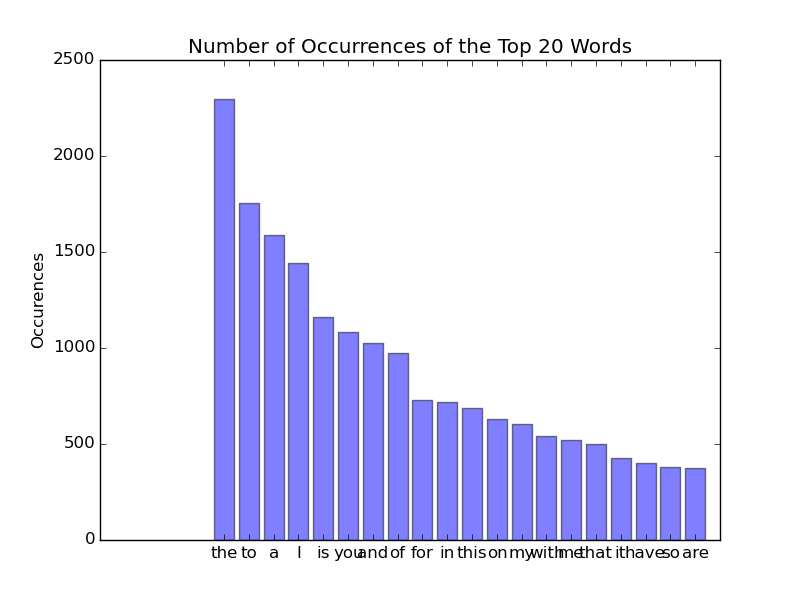
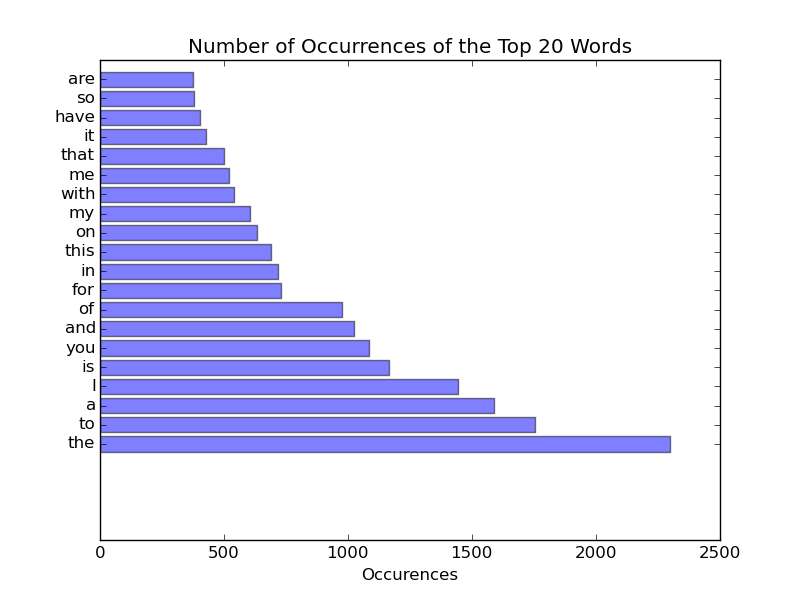
plots

Changed region(s): [[0.0312, 0.09, 0.9375, 0.99], [0.0938, 0.9, 0.125, 0.93]]

diff --git a/exercise_2/barplot.py b/exercise_2/barplot.py
@@ -11,16 +11,19 @@ cur = conn.cursor()
 cur.execute("SELECT word, count FROM tweetwordcount order by count DESC limit 20")
 records = cur.fetchall()
 print len(records)
+
 bar_val = range(0,len(records))
 bar_labels = [rec[0] for rec in records]
 bar_length = [rec[1] for rec in records]
 
 
-plt.bar(bar_val, bar_length, align='center', alpha=0.5)
-plt.xticks(bar_val, bar_labels)
+plt.barh(bar_val, bar_length, align='center', alpha=0.5)
+plt.yticks(bar_val, bar_labels)
 
-plt.ylabel('Occurences')
+
+plt.xlabel('Occurences')
 plt.title('Number of Occurrences of the Top 20 Words')
+
 plt.savefig('barplot.png')
 
 conn.commit()
